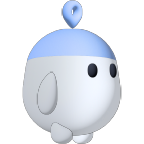
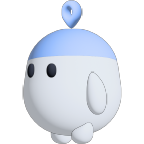
fix(map): 지도 위 핑고가 화면이 가는 쪽으로 걷는다 (#1746)
그림이 실제로 보는 쪽과 코드가 기대한 쪽이 축마다 달라 좌우만 맞았다.
8방향 모두 화면이 가는 쪽(끈 쪽의 반대)으로 맞추고, 그림 파일 이름을
보는 쪽으로 바꿨다. 방향은 12px 넘게 끌었을 때만 정하고 지금 방향에서
크게 꺾지 않으면 유지하며, 확대·축소로 레벨이 바뀌면 기준점을 다시 잡는다.

Changed region(s): [[0.1389, 0.1944, 0.8611, 1.0], [0.4167, 0.0, 0.5833, 0.2222], [0.2778, 0.5556, 0.3056, 0.5833]]

diff --git a/frontend/src/ui/MapPingo.tsx b/frontend/src/ui/MapPingo.tsx
@@ -6,21 +6,22 @@ import diagUpRight from '@/assets/pingo/diag-up-right.png'
 import drowsy from '@/assets/pingo/drowsy.png'
 import front from '@/assets/pingo/front.png'
 import sleep from '@/assets/pingo/sleep.png'
-import walk1 from '@/assets/pingo/walk-1.png'
-import walk2 from '@/assets/pingo/walk-2.png'
-import walk3 from '@/assets/pingo/walk-3.png'
 import walkLeft1 from '@/assets/pingo/walk-left-1.png'
 import walkLeft2 from '@/assets/pingo/walk-left-2.png'
 import walkLeft3 from '@/assets/pingo/walk-left-3.png'
+import walkRight1 from '@/assets/pingo/walk-right-1.png'
+import walkRight2 from '@/assets/pingo/walk-right-2.png'
+import walkRight3 from '@/assets/pingo/walk-right-3.png'
 import wave from '@/assets/pingo/wave.png'
 import type { IdleStage } from '@/features/agent/useIdleStage'
 import type { MapHeading } from '@/features/shell/sheetStore'
 
 // 처음 끌 때 걷는 그림이 늦게 떠 깜빡이지 않게 미리 받아 둔다.
-for (const src of [back, diagDownLeft, diagDownRight, diagUpLeft, diagUpRight, walk1, walk2, walk3, walkLeft1, walkLeft2, walkLeft3, wave, drowsy, sleep]) new Image().src = src
+for (const src of [back, diagDownLeft, diagDownRight, diagUpLeft, diagUpRight, walkLeft1, walkLeft2, walkLeft3, walkRight1, walkRight2, walkRight3, wave, drowsy, sleep]) new Image().src = src
 
 const IMG = 'absolute inset-0 size-full select-none'
-const DIAGONAL = { 'up-left': diagUpLeft, 'up-right': diagUpRight, 'down-left': diagDownLeft, 'down-right': diagDownRight }
+/** 그림 파일 이름은 핑고가 보는 쪽이다(#1746 — 이름과 보는 쪽이 어긋나 방향이 틀렸다). */
+const DIAGONAL ={ 'up-left': diagUpLeft, 'up-right': diagUpRight, 'down-left': diagDownLeft, 'down-right': diagDownRight }
 
 /** 새 조언이 있다는 표시 — 평면 「!」 말풍선(새 소식 귤색 `--advice-alert`, 흰 테두리). 핑고 머리 오른쪽 위에 떠서 천천히 들썩인다. */
 function AlertBubble() {
@@ -69,9 +70,9 @@ function Snore() {
   )
 }
 
-/** 옆으로 걷는 그림 1·2·3·2 를 0.15초씩. 왼쪽은 원본을 뒤집고 명암을 오른쪽 빛으로 다시 맞춘 그림이다(#1440 리뷰). */
+/** 옆으로 걷는 그림 1·2·3·2 를 0.15초씩. 원본은 왼쪽을 보고, 오른쪽은 원본을 뒤집고 명암을 오른쪽 빛으로 다시 맞춘 그림이다(#1440 리뷰). */
 function SideWalk({ left }: { left: boolean }) {
-  const [w1, w2, w3] = left ? [walkLeft1, walkLeft2, walkLeft3] : [walk1, walk2, walk3]
+  const [w1, w2, w3] = left ? [walkLeft1, walkLeft2, walkLeft3] : [walkRight1, walkRight2, walkRight3]
   return (
     <>
       <img src={w1} alt="" draggable={false} className={`${IMG} motion-safe:animate-pingo-frame-a`} />
@@ -83,12 +84,12 @@ function SideWalk({ left }: { left: boolean }) {
 
 /**
  * 지도 위 핑고(#1433) — 디자이너 3D 렌더(원본 144px). 시트·패널 안은 평면 `Pingo`다(3D가 겉돈다, DESIGN.md 「핑고」).
- * heading 이 있으면 그쪽(8방향)으로 움직인다.
+ * heading 이 있으면 그쪽(8방향)을 보며 걷는다. heading 은 화면이 가는 쪽, 곧 지도를 끈 쪽의 반대다(camera.walkHeading, #1746).
  * - 좌우: 측면 걷기 1·2·3·2, 걸음마다 들썩인다.
  * - 위: 뒤를 돌아 걸음마다 몸이 한 번 오르고 좌우로 살짝 기운다. 원본 뒷모습 한 장만 쓴다 —
  *   뒤집은 뒷모습을 번갈아 쓰면 하이라이트와 가장자리 그늘이 걸음마다 좌우로 바뀌었다.
  * - 아래: 정면으로 걸음마다 한 칸씩 내려온다. 사용자 쪽으로 오는 방향이라 ↙·↘(반측면)처럼 얼굴이 보인다.
- * - 대각선: 반측면 그림이 그쪽을 보고 위·아래처럼 걷는다. 원본 반측면(`01_반측면`)이 오른쪽 아래이고, 왼쪽은 뒤집어 빛을 다시 맞춘 그림,
+ * - 대각선: 반측면 그림이 그쪽을 보고 위·아래처럼 걷는다. 원본 반측면(`01_반측면`)이 왼쪽 아래를 보고, 오른쪽 아래는 뒤집어 빛을 다시 맞춘 그림,
  *   위쪽 둘은 눈을 지운 그림이다 — 몸이 둥글고 좌우가 같아서 반대쪽 아래를 보는 모습을 뒤에서 본 모양이 된다(`~/ktc4-drafts-review/pingo-diagonals.py`).
  * 원본 렌더의 빛은 오른쪽 위다. 서 있으면 정면이고 `wave`·`alert` 면 손을 흔든다. `alert`(새 조언)면 머리 옆에 「!」 말풍선이 뜬다.
  * `idle` 이면 쉰다 — 졸 땐 눈을 반쯤 감고 꾸벅이고, 잘 땐 눈을 감고 이불을 덮은 채 숨 쉬며 「z」가 떠오른다.

diff --git a/frontend/src/features/map/MapCanvas.tsx b/frontend/src/features/map/MapCanvas.tsx
@@ -2,7 +2,7 @@ import { useEffect, useLayoutEffect, useRef, useState } from 'react'
 import { createRoot } from 'react-dom/client'
 
 import { KakaoMapKeyMissingError, loadKakaoMaps } from './kakaoMap'
-import { allInside, dragHeading, fitCenter, fitLevel, fitPadding, groupNear, view, zoomSteps } from './camera'
+import { allInside, fitCenter, fitLevel, fitPadding, groupNear, view, walkHeading, zoomSteps } from './camera'
 import { attachLongPress } from './longPress'
 import { createMarkerLayer, mapFade, PIN_GROUP_PX, type MarkerLayer } from './markerLayer'
 import { setMapBridge, usePinDragStore } from './pinDrag'
@@ -262,7 +262,8 @@ export default function MapCanvas({
           })
         const still = () => window.matchMedia('(prefers-reduced-motion: reduce)').matches
 
-        // 끈 방향(#1433) — 끌기 시작한 자리의 좌표가 화면에서 손가락을 따라 움직인 쪽. 지도 위 핑고가 그쪽을 보며 걷는다.
+        // 지도 위 핑고가 걷는 쪽(#1433, #1746) — 끌기 시작한 자리의 좌표가 화면에서 손가락을 따라 움직인 만큼을 재고,
+        // 핑고는 그 반대(화면이 가는 쪽)로 걷는다(camera.walkHeading).
         let dragAnchor: kakao.maps.LatLng | null = null
         let dragAt = { x: 0, y: 0 }
         const onDragStart = () => {
@@ -276,10 +277,15 @@ export default function MapCanvas({
         const onDrag = () => {
           if (!dragAnchor) return
           const p = map.getProjection().containerPointFromCoords(dragAnchor)
-          const heading = dragHeading({ x: p.x - dragAt.x, y: p.y - dragAt.y })
+          const { mapHeading, setMapHeading } = useSheetStore.getState()
+          const heading = walkHeading({ x: p.x - dragAt.x, y: p.y - dragAt.y }, mapHeading)
           if (!heading) return
           dragAt = p
-          useSheetStore.getState().setMapHeading(heading)
+          if (heading !== mapHeading) setMapHeading(heading)
+        }
+        // 두 손가락으로 확대·축소하면 기준 좌표의 화면 자리가 축척 따라 튄다 — 그 거리는 끈 것이 아니라 기준을 다시 잡는다.
+        const rebaseDrag = () => {
+          if (dragAnchor) dragAt = map.getProjection().containerPointFromCoords(dragAnchor)
         }
         const onIdle = () => callbacks.current.onMovingChange(false)
         // 도형 위를 누르면 카카오가 지도 click 대신(또는 함께) 도형 click 을 준다 — 어느 쪽이 와도 한 번만 알린다.
@@ -312,6 +318,7 @@ export default function MapCanvas({
         maps.event.addListener(map, 'rightclick', onRightClick)
         maps.event.addListener(map, 'dragstart', press.cancel)
         maps.event.addListener(map, 'zoom_changed', fade)
+        maps.event.addListener(map, 'zoom_changed', rebaseDrag)
         detach = () => {
           stopMoves()
           maps.event.removeListener(map, 'dragstart', onDragStart)
@@ -323,6 +330,7 @@ export default function MapCanvas({
           container.removeEventListener('contextmenu', blockMenu)
           press.detach()
           maps.event.removeListener(map, 'zoom_changed', fade)
+          maps.event.removeListener(map, 'zoom_changed', rebaseDrag)
         }
 
         mapRef.current = { maps, map }

diff --git a/frontend/src/features/map/camera.ts b/frontend/src/features/map/camera.ts
@@ -102,19 +102,34 @@ export function groupNear(points: Px[], dist: number): number[][] {
   return groups
 }
 
-/** 대각선으로 보는 기울기 — 작은 쪽이 큰 쪽의 tan 22.5° 이상이면 45°에 더 가깝다(8방향을 45°씩 똑같이 나눈다). */
-const DIAGONAL = Math.tan(Math.PI / 8)
+/** 8방향의 화면 각도(°, 오른쪽 0에서 시계 방향 — 화면 y 는 아래가 +). */
+const HEADING_DEG: Record<MapHeading, number> = {
+  right: 0,
+  'down-right': 45,
+  down: 90,
+  'down-left': 135,
+  left: 180,
+  'up-left': -135,
+  up: -90,
+  'up-right': -45,
+}
+const HEADINGS = Object.keys(HEADING_DEG) as MapHeading[]
+
+/** 이만큼(px) 끌어야 방향을 정한다. 이보다 짧으면 손떨림 1~2px 에도 대각선으로 튄다(#1746). */
+export const WALK_MIN_PX = 12
+/** 지금 방향의 칸(±22.5°)에서 이만큼(°) 더 벗어나야 바꾼다 — 경계에서 두 방향을 오가지 않게. */
+const WALK_KEEP_DEG = 15
 
 /**
- * 사용자가 지도를 끈 방향(#1433) — 화면에서 움직인 만큼(px)을 8방향 중 가장 가까운 쪽으로.
- * min px 보다 덜 움직였으면 손떨림으로 보고 방향을 정하지 않는다(null).
+ * 지도 위 핑고가 걷는 쪽(#1433, #1746) — 화면이 가는 쪽, 곧 지도를 끈 쪽의 반대다.
+ * 땅(지도)이 발밑으로 끈 쪽으로 지나가니, 핑고는 그 반대로 걸어 나가는 것처럼 보인다.
+ * drag 는 끈 만큼(px). min px 보다 덜 움직였으면 정하지 않는다(null).
+ * prev(지금 방향)의 칸에서 WALK_KEEP_DEG 안이면 prev 를 그대로 둔다 — 떨림이나 손 뗄 때의 작은 꺾임에 바뀌지 않는다.
  */
-export function dragHeading(d: Px, min = 4): MapHeading | null {
-  const ax = Math.abs(d.x)
-  const ay = Math.abs(d.y)
-  if (Math.max(ax, ay) < min) return null
-  const h = d.x > 0 ? 'right' : 'left'
-  const v = d.y > 0 ? 'down' : 'up'
-  if (Math.min(ax, ay) >= DIAGONAL * Math.max(ax, ay)) return `${v}-${h}`
-  return ax >= ay ? h : v
+export function walkHeading(drag: Px, prev: MapHeading | null, min = WALK_MIN_PX): MapHeading | null {
+  if (Math.hypot(drag.x, drag.y) < min) return null
+  const deg = (Math.atan2(-drag.y, -drag.x) * 180) / Math.PI
+  const off = (h: MapHeading) => Math.abs(((deg - HEADING_DEG[h] + 540) % 360) - 180)
+  if (prev && off(prev) <= 22.5 + WALK_KEEP_DEG) return prev
+  return HEADINGS.reduce((best, h) => (off(h) < off(best) ? h : best))
 }

diff --git a/frontend/src/features/map/camera.test.ts b/frontend/src/features/map/camera.test.ts
@@ -1,6 +1,6 @@
 import { describe, expect, it } from 'vitest'
 
-import { allInside, dragHeading, fitCenter, fitLevel, groupNear, MAX_LEVEL, zoomSteps } from './camera'
+import { allInside, fitCenter, fitLevel, groupNear, MAX_LEVEL, walkHeading, zoomSteps } from './camera'
 
 const size = { w: 1000, h: 800 }
 const none = { top: 0, right: 0, bottom: 0, left: 0 }
@@ -64,16 +64,28 @@ describe('겹친 검색 결과 묶기(#1174)', () => {
   })
 })
 
-describe('지도를 끈 방향(#1433)', () => {
-  it('8방향 중 가장 가까운 쪽, 조금 떨린 것은 방향이 없다', () => {
-    expect(dragHeading({ x: 12, y: -4 })).toBe('right')
-    expect(dragHeading({ x: -12, y: 4 })).toBe('left')
-    expect(dragHeading({ x: 10, y: -9 })).toBe('up-right')
-    expect(dragHeading({ x: -9, y: -10 })).toBe('up-left')
-    expect(dragHeading({ x: 8, y: 6 })).toBe('down-right')
-    expect(dragHeading({ x: -12, y: 5 })).toBe('down-left')
-    expect(dragHeading({ x: 3, y: -9 })).toBe('up')
-    expect(dragHeading({ x: -3, y: 9 })).toBe('down')
-    expect(dragHeading({ x: 2, y: -3 })).toBeNull()
+describe('지도 위 핑고가 걷는 쪽(#1433, #1746)', () => {
+  it('화면이 가는 쪽, 곧 끈 쪽의 반대다 — 8방향', () => {
+    expect(walkHeading({ x: 20, y: -4 }, null)).toBe('left')
+    expect(walkHeading({ x: -20, y: 4 }, null)).toBe('right')
+    expect(walkHeading({ x: 3, y: -20 }, null)).toBe('down')
+    expect(walkHeading({ x: -3, y: 20 }, null)).toBe('up')
+    expect(walkHeading({ x: 14, y: -13 }, null)).toBe('down-left')
+    expect(walkHeading({ x: -13, y: -14 }, null)).toBe('down-right')
+    expect(walkHeading({ x: 12, y: 10 }, null)).toBe('up-left')
+    expect(walkHeading({ x: -15, y: 10 }, null)).toBe('up-right')
+  })
+
+  it('12px 보다 덜 끌면 정하지 않는다 — 손떨림', () => {
+    expect(walkHeading({ x: 8, y: -6 }, null)).toBeNull()
+    expect(walkHeading({ x: 8, y: -6 }, 'left')).toBeNull()
+  })
+
+  it('지금 방향에서 조금 기울면 그대로, 크게 꺾으면 바꾼다', () => {
+    // 끈 쪽 → 에서 30° 기움: 칸 경계(22.5°)는 넘지만 그대로 '왼쪽'
+    const tilt = (deg: number) => ({ x: 20 * Math.cos((deg * Math.PI) / 180), y: -20 * Math.sin((deg * Math.PI) / 180) })
+    expect(walkHeading(tilt(30), null)).toBe('down-left')
+    expect(walkHeading(tilt(30), 'left')).toBe('left')
+    expect(walkHeading(tilt(60), 'left')).toBe('down-left')
   })
 })

diff --git a/frontend/src/ui/MapPingo.test.tsx b/frontend/src/ui/MapPingo.test.tsx
@@ -1,0 +1,31 @@
+import { render } from '@testing-library/react'
+import { describe, expect, it } from 'vitest'
+
+import type { MapHeading } from '@/features/shell/sheetStore'
+
+import MapPingo from './MapPingo'
+
+/** 처음 보이는 그림의 파일 이름. 그림 파일 이름은 핑고가 보는 쪽이다(#1746). */
+const shown = (heading: MapHeading | null) => {
+  const { container, unmount } = render(<MapPingo heading={heading} />)
+  const src = container.querySelector('img')?.getAttribute('src') ?? ''
+  unmount()
+  return src.split('/').pop()?.replace(/\.png.*$/, '')
+}
+
+describe('지도 위 핑고 — heading 쪽을 보는 그림(#1746)', () => {
+  it('8방향 모두 그쪽을 보는 그림을 고른다', () => {
+    expect(shown('left')).toBe('walk-left-1')
+    expect(shown('right')).toBe('walk-right-1')
+    expect(shown('up')).toBe('back')
+    expect(shown('down')).toBe('front')
+    expect(shown('up-left')).toBe('diag-up-left')
+    expect(shown('up-right')).toBe('diag-up-right')
+    expect(shown('down-left')).toBe('diag-down-left')
+    expect(shown('down-right')).toBe('diag-down-right')
+  })
+
+  it('서 있으면 정면이다', () => {
+    expect(shown(null)).toBe('front')
+  })
+})

diff --git a/frontend/src/features/agent/AgentButton.tsx b/frontend/src/features/agent/AgentButton.tsx
@@ -23,7 +23,7 @@ function readOpens() {
  * 「핑고 AI 조언」 버튼(agent-v2 16.1). 조언은 지도 단위라 지도가 떠 있는 네 탭 모두의 지도 왼쪽 아래에 있다(#1162) —
  * 오른쪽 지도 버튼 묶음과 같은 높이로 시트 윗변을 따라 오르내린다. 안내자 핑고가 손을 흔들며 말을 거는 모양(말풍선)이다.
  * 새 제안을 아직 안 봤으면 핑고가 손을 흔들고 머리 옆에 3D 「!」 말풍선이 뜬다(새 소식 귤색, #1223 → #1433). 모드가 꺼져 있어도 버튼은 보이고 알림만 숨긴다. 요약 갱신에는 알림을 켜지 않는다.
- * 핑고는 3D 지도 핑고이고(#1433), 지도를 끄는 동안 말풍선만 흐려지고 핑고는 끈 방향을 보며 걷는다.
+ * 핑고는 3D 지도 핑고이고(#1433), 지도를 끄는 동안 말풍선만 흐려지고 핑고는 화면이 가는 쪽(끈 쪽의 반대)을 보며 걷는다(#1746).
  * 말풍선을 숨긴 뒤에는 핑고만 남아 누르는 자리가 된다.
  */
 export default function AgentButton({

diff --git a/frontend/src/features/shell/sheetStore.ts b/frontend/src/features/shell/sheetStore.ts
@@ -3,7 +3,7 @@ import { create } from 'zustand'
 /** 바텀시트 3단계(최종기획안 4절). 1 = 접힘(손잡이·제목만), 2 = 절반, 3 = 전체. */
 export type SheetStage = 1 | 2 | 3
 export type TabKey = 'map' | 'recommend' | 'shortlist' | 'course' | 'me'
-/** 지도를 끄는 방향(손가락·마우스가 움직인 쪽, 8방향). 지도 위 핑고가 이쪽을 보며 걷는다(#1433). */
+/** 지도 위 핑고가 보며 걷는 쪽(8방향, #1433). 화면이 가는 쪽, 곧 지도를 끈 쪽의 반대다(`camera.walkHeading`, #1746). */
 export type MapHeading = 'left' | 'right' | 'up' | 'down' | 'up-left' | 'up-right' | 'down-left' | 'down-right'
 
 type SheetState = {

diff --git a/frontend/DESIGN.md b/frontend/DESIGN.md
@@ -297,7 +297,7 @@ components:
 - **거리:** 제자리에서 나타나는 것은 8px 이하로 움직이고, 크기는 95%에서 시작한다. 화면 밖에서 들어오는 시트만 제 높이만큼 움직인다.
 - **동작 줄이기:** 기기에서 동작 줄이기를 켜면 모든 움직임을 끈다(`prefers-reduced-motion`, Tailwind `motion-reduce:`).
 - **닫힐 때:** 모달 시트만 0.2초 동안 닫힘 효과를 준다. 좁은 화면에서는 아래로 내려가고, 넓은 화면의 가운데 창은 흐려진다. 사용자가 닫을 때(✕·딤·Esc·끌어 내리기)만 효과가 나고, 효과가 끝난 뒤 `onClose`가 불린다. 「완료」처럼 부모가 바로 빼서 닫는 경우와 확인 창은 바로 사라진다. 빨리 사라져야 다음 동작이 막히지 않는다.
-- **핑고 예외:** 핑고의 들썩임(AI가 찾는 중)과 걷기(응답 기다림)는 끝날 때까지 반복한다. 꾸밈이 아니라 "지금 일하는 중"을 알리는 상태 표시라서 0.5초 상한 밖이다. 로그인 화면의 날기(`fly`, 들썩임 + 망토 펄럭임)는 첫인상 그림이라 예외로 둔다(#640). 고른 AI 후보 핀을 끌어안는 핑고(`hug`)는 머리 뒤에서 0.3초에 올라오고 풀리면 0.2초에 내려간다. 머리를 감싼 손은 0.2초 뒤 나타난다. 그 핀은 한 번 튄다(`pin-bounce`, 0.4초). 지도 위 여러 후보 중 어느 것을 골랐는지 알리는 표시라 예외로 둔다. 고른 검색 결과도 한 번 튀지만 핑고는 붙지 않는다. 첫 로그인 온보딩 장면(`WelcomeScene`)은 핑고가 그 장의 기능을 쓰는 모습(핀 꽂기, 좋음, 반대 누르기, 의견을 모아 후보 찾기, 확정과 동선)을 3~4초 주기로 되풀이한다. 기능을 보여 주는 그림이라 예외로 둔다(2026-10-31). 자주 묻는 질문(`FaqSheet`)의 답 위 그림도 같은 장면 모음이다(초대, 알레르기 확인, 크레딧, 로그인, 휴지통 장면을 더했다, #1538). 답을 펼친 동안만 돈다. 카테고리 칩 줄 끝 "?"의 "지도 쓰는 법" 장면(`mapMouse`, `mapTouch`)도 같은 모음이고 창을 연 동안만 돈다(#1613). 지도 위 핑고는 사용자가 지도를 끄는 동안만 끈 방향(8방향)으로 걷거나 오르내린다(#1433). 손의 움직임을 따라 하는 반응이라 예외로 두고, 손을 떼면 멈춘다. 5분 동안 아무 입력이 없으면 졸고(꾸벅, 2.4초) 10초 뒤 이불을 덮고 잔다(숨쉬기 3초 + 머리 위로 떠오르는 z 2.4초). 화면을 쉬고 있다는 상태 표시라 깰 때까지 반복하고, 손, 마우스, 키보드가 움직이면 바로 깬다. 새 조언 "!" 말풍선의 들썩임은 열어 볼 때까지 이어지는 상태 표시라 예외다. 단계 사이 움직임은 0.2~0.3초 등장 클래스와 transition만 쓰고, 움직임 줄이기면 그 기능을 다 쓴 그림에서 멈춘다. 로그인 상태 확인의 우주 유영(`space`, 4초에 한 번 떠올랐다 가라앉으며 ±8° 기울고 별이 반짝임)은 배포 중이면 30초까지 기다리는 자리라 걷기보다 느긋한 그림으로 예외를 둔다(#1403). 그 밖에 핑고를 뛰거나 떠다니게 하지 않는다 — 결과 도착 때 한 번 뛰던 것은 꾸밈이라 뺐다(#634). 예외는 하나다. AI 추천 결과가 처음 뜰 때 설렘(heart) 핑고 옆에 하트 두 개가 한 번 떠올랐다 사라진다(1초, 둘째는 0.18초 늦게, `pingo-heart-rise`). 몸은 움직이지 않고, 같은 결과로 돌아올 때는 다시 뜨지 않는다. 동작 줄이기면 그리지 않는다(#1706, FE 리드 결정 2026-11-10).
+- **핑고 예외:** 핑고의 들썩임(AI가 찾는 중)과 걷기(응답 기다림)는 끝날 때까지 반복한다. 꾸밈이 아니라 "지금 일하는 중"을 알리는 상태 표시라서 0.5초 상한 밖이다. 로그인 화면의 날기(`fly`, 들썩임 + 망토 펄럭임)는 첫인상 그림이라 예외로 둔다(#640). 고른 AI 후보 핀을 끌어안는 핑고(`hug`)는 머리 뒤에서 0.3초에 올라오고 풀리면 0.2초에 내려간다. 머리를 감싼 손은 0.2초 뒤 나타난다. 그 핀은 한 번 튄다(`pin-bounce`, 0.4초). 지도 위 여러 후보 중 어느 것을 골랐는지 알리는 표시라 예외로 둔다. 고른 검색 결과도 한 번 튀지만 핑고는 붙지 않는다. 첫 로그인 온보딩 장면(`WelcomeScene`)은 핑고가 그 장의 기능을 쓰는 모습(핀 꽂기, 좋음, 반대 누르기, 의견을 모아 후보 찾기, 확정과 동선)을 3~4초 주기로 되풀이한다. 기능을 보여 주는 그림이라 예외로 둔다(2026-10-31). 자주 묻는 질문(`FaqSheet`)의 답 위 그림도 같은 장면 모음이다(초대, 알레르기 확인, 크레딧, 로그인, 휴지통 장면을 더했다, #1538). 답을 펼친 동안만 돈다. 카테고리 칩 줄 끝 "?"의 "지도 쓰는 법" 장면(`mapMouse`, `mapTouch`)도 같은 모음이고 창을 연 동안만 돈다(#1613). 지도 위 핑고는 사용자가 지도를 끄는 동안만 화면이 가는 쪽(끈 쪽의 반대, 8방향)으로 걷거나 오르내린다(#1433, #1746). 땅(지도)이 발밑으로 끈 쪽으로 지나가니 핑고는 그 반대로 걸어 나간다. 그림 파일 이름은 핑고가 보는 쪽이다. 손의 움직임을 따라 하는 반응이라 예외로 두고, 손을 떼면 멈춘다. 5분 동안 아무 입력이 없으면 졸고(꾸벅, 2.4초) 10초 뒤 이불을 덮고 잔다(숨쉬기 3초 + 머리 위로 떠오르는 z 2.4초). 화면을 쉬고 있다는 상태 표시라 깰 때까지 반복하고, 손, 마우스, 키보드가 움직이면 바로 깬다. 새 조언 "!" 말풍선의 들썩임은 열어 볼 때까지 이어지는 상태 표시라 예외다. 단계 사이 움직임은 0.2~0.3초 등장 클래스와 transition만 쓰고, 움직임 줄이기면 그 기능을 다 쓴 그림에서 멈춘다. 로그인 상태 확인의 우주 유영(`space`, 4초에 한 번 떠올랐다 가라앉으며 ±8° 기울고 별이 반짝임)은 배포 중이면 30초까지 기다리는 자리라 걷기보다 느긋한 그림으로 예외를 둔다(#1403). 그 밖에 핑고를 뛰거나 떠다니게 하지 않는다 — 결과 도착 때 한 번 뛰던 것은 꾸밈이라 뺐다(#634). 예외는 하나다. AI 추천 결과가 처음 뜰 때 설렘(heart) 핑고 옆에 하트 두 개가 한 번 떠올랐다 사라진다(1초, 둘째는 0.18초 늦게, `pingo-heart-rise`). 몸은 움직이지 않고, 같은 결과로 돌아올 때는 다시 뜨지 않는다. 동작 줄이기면 그리지 않는다(#1706, FE 리드 결정 2026-11-10).
 - **끌어서 삭제하기 예외(#1012):** 핀을 집고 있는 동안(마우스는 누른 채 끌 때, 터치는 0.4초 길게 누른 뒤부터 놓을 때까지) 손을 따라오는 핀이 좌우 4°로 계속 떤다(`pin-wobble`, 0.15초 왕복). 「지금 이 핀을 옮기는 중」을 알리는 상태 표시라 0.5초 상한 밖이다. 휴지통 뚜껑은 핀이 위에 오면 0.2초에 열리고, 놓으면 핀이 0.25초 동안 30%로 작아지며 통 안으로 들어간 뒤 뚜껑이 0.2초에 닫힌다(합쳐 0.45초). 동작 줄이기면 떨림·뚜껑·들어가기를 모두 끄고, 휴지통은 위에 핀이 올라온 동안 테두리 색(brand-600)으로만 알린다. 핑고는 나오지 않는다(핑고는 안내·로딩·AI 화면에만).
 - **끌어 옮기기(#1549):** 집은 핀은 0.15초에 108%로 커지며 6px 떠오르고 그림자가 진다(`pin-lift`). 끄는 손이 0.25초 멈추면 놓았을 때 들어갈 장소(우리 DB, 가장 가까운 곳)에 brand-600 원(40px, 선 2)을 미리 보인다. 지도 위에 놓으면 그 장소 좌표로 0.2초 미끄러져 한 번 튀고(`pin-bounce`), 옮기지 못하면 0.25초 동안 집은 자리로 돌아간다. 동작 줄이기면 미끄러지기와 튀기를 끄고 바로 놓인 자리에 보인다. 장소가 여러 곳이면 바닥 시트 "어디로 옮길까요?"에서 고른다. 남이 찍은 핀, 확정 핀, AI 추천 핀은 옮기지 않고 이유를 토스트로 알린다(휴지통에는 놓을 수 있다).
 - **끌어 내리기:** 좁은 화면의 모달 시트는 손잡이(맨 위 줄 가운데, 줄 높이 44px)를 끌면 손가락을 따라 내려간다. 80px를 넘기고 놓으면 닫히고, 덜 끌면 제자리로 돌아간다. 내용은 끌리지 않는다. 긴 목록(지역 고르기)의 스크롤과 부딪히기 때문이다.
@@ -370,7 +370,7 @@ components:
 | 끝나지 않은 일(#1547, 자이가르닉 효과) | `TaskProgress` 카드 (흰 면 + ink-200 `ring-1` + 반경 12. 머리 「제목」 14/700 + 「n/m단위」 16/700 action 파랑 + 오른쪽 action 파랑 % · `ProgressTrack` 막대(8px action 파랑, 화면에서 파랑 막대는 이것뿐이다, #1636) · 할 일 줄(끝난 일 = 채운 action 원 + 흰 체크 + ink-500 글자, 남은 일 = ink-300 빈 원 + 굵은 글자, 누르면 그 일로 간다, 누르는 자리 44px) · 안내 한 줄 13 ink-500 + 「모두 보기」 `btn-link`). 다 끝나면 그리지 않는다(마킹 탭 「내가 남긴 의견」은 다 남기면 `DoneCard` 「모든 핀에 의견을 남겼어요」 + 「AI 추천 받기」, #1659. 확정 탭 「일정」은 다 채우면 초록 막대 + 「모든 날에 장소를 넣었어요」 한 줄로 남는다). 끝난 줄의 원은 체크가 그려지며 나타난다(`done-check`). 핀 찍기 「내가 남긴 의견」(끝낸 곳 하나 + 남은 곳, 누르면 핀이 열림. 「내 의견」은 세 곳 중 하나를 고르라는 뜻으로 읽혀 바꿨다, #1636), 확정 탭 「일정」(날마다 한 줄, 빈 날을 누르면 넣을 날짜로) | `ui/TaskProgress` |
 | 두 문장 이상 안내 글 | `Sentences` (문장마다 줄, 한 문장이면 그대로) | `ui/Sentences` |
 | 핑고 | `Pingo` (표정 `mood` · 고개 내밀기 `peek`) · 작은 아이콘 자리는 `PingoMark` | `ui/Pingo` |
-| 지도 위 핑고(3D, 끈 방향 8방향으로 걷기·오르내리기, 쉬면 졸기·잠들기, 새 조언 「!」) | `MapPingo` (`heading` · `wave` · `alert` · `idle`, 크기는 className). 쉬는 시간은 `features/agent/useIdleStage` | `ui/MapPingo` |
+| 지도 위 핑고(3D, 화면이 가는 쪽 8방향으로 걷기·오르내리기, 쉬면 졸기·잠들기, 새 조언 「!」) | `MapPingo` (`heading` · `wave` · `alert` · `idle`, 크기는 className). 쉬는 시간은 `features/agent/useIdleStage` | `ui/MapPingo` |
 | 온보딩 장면(핑고가 기능을 쓰는 모습, 4:3 지도 판) | `WelcomeScene` (`kind` = pin·reaction·ai·shortlist, 자주 묻는 질문 장면, 지도 쓰는 법 `mapMouse`·`mapTouch`) | `features/onboarding/WelcomeScene` |
 | 지도 쓰는 법(지도 위 카테고리 칩 줄 끝 「?」, 모양은 `chip` + `shadow-float` + 아이콘 16, 누르는 곳 44) | `MapGestureHelp` (`MenuPopover` 안에 제목 · 장면 · 「손이 하는 일 — 지도가 하는 일」 세 줄(가운데로 옮기기, 핀 찍기, 핀 끌어 지우기 #1012). 마우스(`pointer: fine`)면 클릭·우클릭·눌러서 끌기, 아니면 짧게·길게 누르기·길게 눌러 끌기 — 첫 안내 토스트와 같은 기준. 흰 칩에 아이콘만 있어 필터 칩처럼 보여서, 처음 한 번 `CoachMark`로 자리를 짚는다(#1684). 색과 자리는 바꾸지 않는다. 파랑을 주면 선택된 칩으로 읽히고, 지도 버튼 묶음에 두면 작은 휴대폰에서 묶음이 숨는다) | `features/map/MapGestureHelp` |
 | 여러 장 중 몇 번째(온보딩) | `StepDots` (지금 장 brand-600 길쭉한 점 · 나머지 ink-300, 읽는 글은 「4장 중 2장」) | `ui/StepDots` |
@@ -545,7 +545,7 @@ components:
 - 서버가 카카오맵 검색 링크를 주면(#798, 같은 모양의 네이버 지도 링크가 바로 뒤에 붙는다 #1513) 두 버튼 아래 같은 묶음에 `ExternalSearchLink`(`btn-outline btn-lg`, 두 칸 폭)를 둔다. 결과가 적을 때는 후보 목록 아래 `btn-outline btn-md`, 추천 준비에서 그 지역에 정예 장소가 없을 때는 추천 버튼 위 `Notice`(「이 지역에는 아직 추천할 장소가 없어요」) 안 `btn-outline btn-sm`이다. 추천 버튼은 막지 않는다. 기준 숫자(몇 곳 미만)는 화면에 적지 않고 링크가 있는지만 본다. 장소 검색 결과가 없을 때(#905)는 「검색어 지우고 다시 찾기」 아래 `btn-link`로 둔다 — 링크는 친 검색어 그대로 서버가 만들고, 받지 못하면 숨긴다.
 
 ### 핑고
-캐릭터 시안(`PINGO_캐디.pdf`, 2026-10-19)의 평면 2D 기본형이다. 흰 몸 + 핑고 파랑 모자·머리 핀 + ink-300 외곽선이다. 시트·패널 안에서는 3D 렌더가 겉돌아서 평면만 쓴다. 표정은 그 화면의 상황으로 고른다. 지도 위에 맨몸으로 서는 「핑고 AI 조언」 핑고만 디자이너 3D 렌더(`MapPingo`, `src/assets/pingo/`)다(#1433) — 지도 그림 위라 평면보다 덜 겉돌고, 끄는 방향을 보며 걷는 그림(측면·뒷모습)이 원본에 있다.
+캐릭터 시안(`PINGO_캐디.pdf`, 2026-10-19)의 평면 2D 기본형이다. 흰 몸 + 핑고 파랑 모자·머리 핀 + ink-300 외곽선이다. 시트·패널 안에서는 3D 렌더가 겉돌아서 평면만 쓴다. 표정은 그 화면의 상황으로 고른다. 지도 위에 맨몸으로 서는 「핑고 AI 조언」 핑고만 디자이너 3D 렌더(`MapPingo`, `src/assets/pingo/`)다(#1433) — 지도 그림 위라 평면보다 덜 겉돌고, 걷는 그림(측면·뒷모습)이 원본에 있다.
 
 표정은 캐릭터 가이드 v2(2026-11-04, 「다음 한 걸음을 제안하는 AI 탐험 친구」 감정 12종)를 옮겼다(#1376). 몸 모양은 같고 표정·팔·꾸밈(반짝임·물음표·땀방울)만 다르다. 꾸밈은 그림 틀 밖으로 조금 나가도 되고 틀 크기는 몸 크기다. 삐짐·버럭·졸림은 SNS 상황극용이라 앱에는 넣지 않았다. 볼과 하트의 분홍은 `pingo-blush`이고 핑고 그림에만 쓴다.
 
@@ -604,7 +604,7 @@ components:
 
 계획 보조 에이전트(docs/agent-v2.md 16절)의 자리다. 에이전트는 아무것도 직접 하지 않는다 — 버튼은 사람이 원래 하던 동작의 지름길이다. 문장은 모두 서버가 렌더하고 화면은 숫자나 슬롯을 만들지 않는다.
 
-- **버튼(`AgentButton`)** — 지도가 떠 있는 네 탭 모두의 지도 왼쪽 아래다(조언은 지도 단위, #1162). 오른쪽 지도 버튼 묶음과 같은 줄이다. 모바일은 시트 윗변 12px 위에 붙어 오르내리고 숨는 조건(3단계·모달·좁은 화면)도 지도 버튼과 같다. 지도를 끌 때는 말풍선만 흐려지고 핑고는 남아서 끈 방향(8방향, 45°씩)을 보며 제자리에서 걷는다(#1433): 좌우는 측면 걷기 1·2·3·2를 0.15초씩(원본이 오른쪽으로 걷는 모습이라 왼쪽은 뒤집고 명암을 원본 빛 방향인 오른쪽 위로 다시 맞춘 그림), 위는 뒤를 돌아, 아래는 정면으로 걸음마다 몸이 한 번 오르거나 내려가고 좌우로 4° 기운다. 아래(↙·↓·↘)는 사용자 쪽으로 오는 방향이라 셋 다 얼굴이 보인다(2026-11-08). 뒷모습은 원본 한 장만 쓴다 — 뒤집은 뒷모습을 번갈아 쓰면 하이라이트와 가장자리 그늘이 걸음마다 좌우로 바뀌었다(사다리 그림은 겉돌아서 뺐다). 대각선은 반측면 그림이 그쪽을 보고 위·아래처럼 걷는다(걸음마다 오르내림 + 좌우 4°). 원본 반측면(`01_반측면`)이 오른쪽 아래이고, 왼쪽 아래는 뒤집어 빛을 다시 맞춘 그림, 위쪽 둘은 눈을 지운 그림이다 — 몸이 둥글고 좌우가 같아서 반대쪽 아래를 보는 모습을 뒤에서 본 모양이 된다(`diag-*.png`). 좌우는 걸음마다 들썩인다. 5분 동안 아무 입력이 없으면 눈을 반쯤 감고 꾸벅이다가, 10초 뒤 눈을 감고 이불(brand-200→300, 접은 단 brand-100, 윤곽 brand-400)을 덮은 채 숨 쉬며 머리 왼쪽 위로 z가 떠오른다(오른쪽 위는 새 조언 「!」 자리). 감은 눈 그림은 정면 렌더에서 눈을 지우고 그린 파일이다(`drowsy.png`·`sleep.png`). 손을 떼면 정면으로 선다. 움직임 줄이기면 그쪽을 보기만 한다. 넓은 화면은 지도 영역 왼쪽 16px · 아래 40px 고정 — 카카오 로고·축척 막대(바닥에서 약 20px)와 겹치지 않게 띄운다(#1524). 모양은 안내자 핑고가 말을 거는 모습이다(#1162): 손 흔드는 3D 핑고(`MapPingo` `wave`, 휴대폰 48 · 태블릿 56 · PC 64, 지도 위라 `drop-shadow-md`) + 오른쪽 말풍선(흰 면 + `shadow-float` + 반경 12, 높이 36, 핑고 쪽 왼편에 회전한 사각 꼬리) 안에 「핑고 AI 조언」(14/700 brand-600). 누르는 자리는 44 이상이다. 새 제안을 아직 안 봤으면 핑고가 손을 흔들고 머리 오른쪽 위에 평면 「!」 말풍선(`--advice-alert` 귤색 면 + 흰 2 테두리 + 흰 「!」 5.2:1, 핑고 크기의 42%)이 떠서 천천히 들썩인다(#1433). 모드가 꺼져 있으면 알림만 숨긴다. 말풍선은 그 기기에서 두 번 열어 보면 숨기고 핑고만 남긴다(지도를 가려서, #1433, 브라우저 저장소 `pingo-advice-opens`). 그 뒤엔 핑고가 누르는 자리다. 서 있는 자세는 말풍선이나 새 조언이 있으면 손 흔들기, 없으면 정면이다.
+- **버튼(`AgentButton`)** — 지도가 떠 있는 네 탭 모두의 지도 왼쪽 아래다(조언은 지도 단위, #1162). 오른쪽 지도 버튼 묶음과 같은 줄이다. 모바일은 시트 윗변 12px 위에 붙어 오르내리고 숨는 조건(3단계·모달·좁은 화면)도 지도 버튼과 같다. 지도를 끌 때는 말풍선만 흐려지고 핑고는 남아서 화면이 가는 쪽(끈 쪽의 반대, 8방향, 45°씩)을 보며 제자리에서 걷는다(#1433): 좌우는 측면 걷기 1·2·3·2를 0.15초씩(원본이 오른쪽으로 걷는 모습이라 왼쪽은 뒤집고 명암을 원본 빛 방향인 오른쪽 위로 다시 맞춘 그림), 위는 뒤를 돌아, 아래는 정면으로 걸음마다 몸이 한 번 오르거나 내려가고 좌우로 4° 기운다. 아래(↙·↓·↘)는 사용자 쪽으로 오는 방향이라 셋 다 얼굴이 보인다(2026-11-08). 뒷모습은 원본 한 장만 쓴다 — 뒤집은 뒷모습을 번갈아 쓰면 하이라이트와 가장자리 그늘이 걸음마다 좌우로 바뀌었다(사다리 그림은 겉돌아서 뺐다). 대각선은 반측면 그림이 그쪽을 보고 위·아래처럼 걷는다(걸음마다 오르내림 + 좌우 4°). 원본 반측면(`01_반측면`)이 오른쪽 아래이고, 왼쪽 아래는 뒤집어 빛을 다시 맞춘 그림, 위쪽 둘은 눈을 지운 그림이다 — 몸이 둥글고 좌우가 같아서 반대쪽 아래를 보는 모습을 뒤에서 본 모양이 된다(`diag-*.png`). 좌우는 걸음마다 들썩인다. 5분 동안 아무 입력이 없으면 눈을 반쯤 감고 꾸벅이다가, 10초 뒤 눈을 감고 이불(brand-200→300, 접은 단 brand-100, 윤곽 brand-400)을 덮은 채 숨 쉬며 머리 왼쪽 위로 z가 떠오른다(오른쪽 위는 새 조언 「!」 자리). 감은 눈 그림은 정면 렌더에서 눈을 지우고 그린 파일이다(`drowsy.png`·`sleep.png`). 손을 떼면 정면으로 선다. 움직임 줄이기면 그쪽을 보기만 한다. 넓은 화면은 지도 영역 왼쪽 16px · 아래 40px 고정 — 카카오 로고·축척 막대(바닥에서 약 20px)와 겹치지 않게 띄운다(#1524). 모양은 안내자 핑고가 말을 거는 모습이다(#1162): 손 흔드는 3D 핑고(`MapPingo` `wave`, 휴대폰 48 · 태블릿 56 · PC 64, 지도 위라 `drop-shadow-md`) + 오른쪽 말풍선(흰 면 + `shadow-float` + 반경 12, 높이 36, 핑고 쪽 왼편에 회전한 사각 꼬리) 안에 「핑고 AI 조언」(14/700 brand-600). 누르는 자리는 44 이상이다. 새 제안을 아직 안 봤으면 핑고가 손을 흔들고 머리 오른쪽 위에 평면 「!」 말풍선(`--advice-alert` 귤색 면 + 흰 2 테두리 + 흰 「!」 5.2:1, 핑고 크기의 42%)이 떠서 천천히 들썩인다(#1433). 모드가 꺼져 있으면 알림만 숨긴다. 말풍선은 그 기기에서 두 번 열어 보면 숨기고 핑고만 남긴다(지도를 가려서, #1433, 브라우저 저장소 `pingo-advice-opens`). 그 뒤엔 핑고가 누르는 자리다. 서 있는 자세는 말풍선이나 새 조언이 있으면 손 흔들기, 없으면 정면이다.
 - **시트** — `ModalSheet`(지도 화면이라 `fullWidth`). 제목 줄 오른쪽에 `Switch`(모드). 꺼져 있으면 「○○님이 껐어요. 켜면 의견이 막힌 곳을 찾아 구성원 모두에게 제안해요」(끈 사람을 모르면 「꺼져 있어요. …」) 한 줄만. 제안이 없으면 `AiHeader` 「지금은 따로 드릴 제안이 없어요」, 그 아래 서버 `observation.notice`가 있으면 13 ink-600 한 줄로 그대로(화면은 문구를 적지 않는다, #1297). 조회가 실패하면 `ErrorText` + `btn-outline btn-sm` 「다시 시도」.
 - **살펴본 시각(#1300)** — 제목 줄 바로 아래 12 ink-500 「핑고가 12분 전에 지도를 살펴봤어요」(1분 안이면 「방금」). `observation.checked_at`이 없거나 null이면 줄을 두지 않고, 모드가 꺼져 있으면 보이지 않는다.
 - **핑고가 지켜보는 곳(#1348, `TrackingList`)** — 살펴본 시각 아래, 지도 현황 문단 위. 머리 「핑고가 지켜보는 곳」(14/700) + 막힌 곳마다 한 줄: 아이콘 14(지켜보는 중 `Eye` brand-600 · 풀림 `CircleCheck` good-text · 해 본 것을 남김 `Flag` ink-500, 접근성 이름이 상태) + 서버 `text` 그대로(13 ink-900) + 12 ink-500 시간. 지켜보는 중은 `since`로 「2시간째」, 풀림·남김은 「5시간 전」이다. 시간은 서버 문구에 붙이지 않고 따로 그린다. 없거나 빈 목록이면 자리를 두지 않고, 모드가 꺼져 있으면 보이지 않는다.
